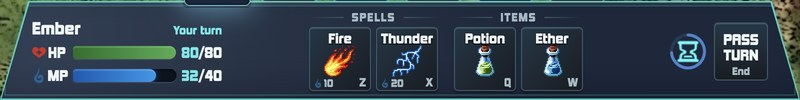
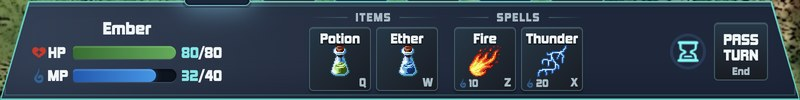
Match combat action order to shortcuts and enlarge tooltips

diff --git a/client/src/components/HUD/PlayerBar.style.css b/client/src/components/HUD/PlayerBar.style.css
@@ -43,11 +43,10 @@
 .player_bar_body { position: relative; z-index: 1; display: flex; align-items: center; justify-content: space-between; gap: 20px; height: 100%; }
 .player_bar_character { flex: 0 1 190px; min-width: 154px; }
 .player_bar_stats { display: flex; flex-direction: column; gap: 7px; }
-.player_bar_heading { display: flex; align-items: baseline; justify-content: space-between; gap: 8px; min-width: 0; line-height: 1.1; }
-.player_bar_name { font-size: 1rem; font-weight: 500; overflow: hidden; text-overflow: ellipsis; white-space: nowrap; }
-.player_bar_turn_label { color: var(--dock-muted); font-size: 0.6875rem; text-align: right; white-space: nowrap; }
+.player_bar_heading { display: flex; flex-direction: column; align-items: center; gap: 3px; min-width: 0; line-height: 1.1; }
+.player_bar_name { max-width: 100%; text-align: center; font-size: 1rem; font-weight: 500; overflow: hidden; text-overflow: ellipsis; white-space: nowrap; }
+.player_bar_turn_label { color: var(--dock-muted); font-size: 0.6875rem; text-align: center; white-space: nowrap; }
 .player_bar_container[data-active="true"] .player_bar_turn_label { color: var(--dock-accent); }
-.player_bar_container[data-pending="true"] .player_bar_heading { flex-wrap: wrap; gap: 2px; }
 .player_bar_stat { display: grid; grid-template-columns: 36px minmax(24px, 1fr) auto; align-items: center; gap: 5px; font-size: 0.875rem; line-height: 1; white-space: nowrap; }
 .player_bar_stat_icon { display: flex; align-items: center; gap: 2px; }
 .player_bar_stat_icon img { width: 14px; height: 16px; object-fit: contain; }
@@ -160,3 +159,10 @@
   text-shadow: 0 0 10px oklch(55% 0.19 15 / 0.8), 0 1px 1px oklch(35% 0.13 15);
   background: linear-gradient(90deg, transparent 15%, oklch(55% 0.19 15 / 0.3) 35%, oklch(55% 0.19 15 / 0.4) 50%, oklch(55% 0.19 15 / 0.3) 65%, transparent 85%);
 }
+
+#combat-action-details { width: 320px; font-size: 1rem; }
+#combat-action-details .item-preview-name { font-size: 1.25rem; }
+#combat-action-details .item-preview-kind, #combat-action-details .item-preview-stat { font-size: 0.8125rem; }
+#combat-action-details .item-preview-facts { font-size: 0.9375rem; }
+
+#combat-action-details .item-preview-description { font-size: 1rem; }

diff --git a/client/src/components/HUD/PlayerBar.tsx b/client/src/components/HUD/PlayerBar.tsx
@@ -87,7 +87,7 @@ class PlayerBar extends Component<PlayerBarProps> {
     const spellsIndex = layout.indexOf(this.state.keyboardLayout === 0 ? 'W' : 'Z');
     const pending = canAct && (player.pendingSpell != null ? spells[player.pendingSpell] : items[player.pendingItem]);
     const condition = player?.hp <= 0 ? 'Knocked out' : player?.isParalyzed ? 'Unable to act' : player?.casting ? 'Casting' : '';
-    const instruction = !isPlayerTurn ? 'Enemy turn' : condition || (pending ? 'Select a target' : canAct ? 'Your turn' : 'Inspecting');
+    const instruction = !isPlayerTurn ? 'Enemy turn' : condition || (pending ? 'Select a target' : canAct ? '' : 'Inspecting');
     const previewMP = pending && 'cost' in pending ? player.mp - pending.cost : player?.mp;
 
     return (
@@ -99,7 +99,7 @@ class PlayerBar extends Component<PlayerBarProps> {
               <div className="player_bar_stats">
                 <div className="player_bar_heading" key={turnNumber}>
                   <strong className="player_bar_name">{player?.name || 'Combat'}</strong>
-                  <span className="player_bar_turn_label" role="status">{instruction}</span>
+                  {instruction && <span className="player_bar_turn_label" role="status">{instruction}</span>}
                 </div>
                 {player && <>
                   <div className="player_bar_stat">
@@ -121,8 +121,8 @@ class PlayerBar extends Component<PlayerBarProps> {
               </div>
             </div>
             <div className="player_bar_actions_container">
-              {spells.length > 0 && this.renderActionRow(spells, spellsIndex, InventoryType.SPELLS)}
               {this.renderActionRow(items, 0, InventoryType.CONSUMABLES)}
+              {spells.length > 0 && this.renderActionRow(spells, spellsIndex, InventoryType.SPELLS)}
             </div>
             <div className="player_bar_controls">
               <CircularTimer turnDuration={turnDuration} timeLeft={timeLeft} turnNumber={turnNumber} size={36} strokeWidth={3} />

diff --git a/client/src/components/GuidePage.tsx b/client/src/components/GuidePage.tsx
@@ -93,7 +93,7 @@ export default function GuidePage({onClose}: {onClose?: () => void}) {
             <p>Clicks outside the targeting range are ignored. Choose another target, or press <kbd>Esc</kbd> to cancel targeting and move or pass instead.</p>
             <figure>
               <img src={actions} width="800" height="100" loading="lazy" alt="The selected mage’s command dock with compact HP and MP, central spell and item buttons, MP costs, keyboard shortcuts, and the pass-turn hourglass." />
-              <figcaption>Green is HP (health); blue is MP (magic). The dock shows the named character’s learned spells and equipped items. Hover over or focus an action for its details. During enemy turns, the dock displays an Enemy Turn banner. Silenced and unaffordable spells remain visible with unavailable styling.</figcaption>
+              <figcaption>Green is HP (health); blue is MP (magic). The dock shows the named character’s equipped items on the left and learned spells on the right, matching the keyboard shortcut order. Hover over or focus an action for its details. During enemy turns, the dock displays an Enemy Turn banner. Silenced and unaffordable spells remain visible with unavailable styling.</figcaption>
             </figure>
             <p>Blue mana bars show remaining MP for both teams. Watch enemy mana to judge which spells they can still afford; casting spends MP and Ether restores it.</p>
             <h3>A reliable opening plan</h3>
